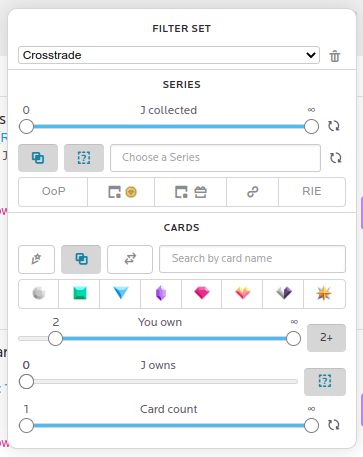
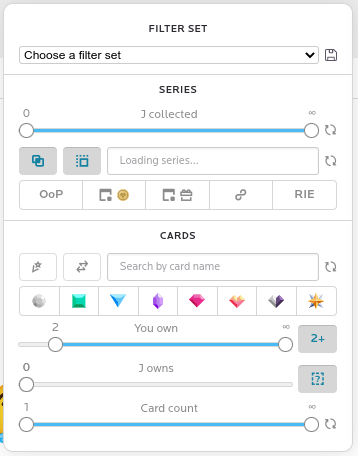
list change of 3.1.3

diff --git a/README.md b/README.md
@@ -4,12 +4,12 @@ Adds enhancements to improve trading and usage experience.
 
 # Installation
 
-1. To use usercripts, you need an appropriate extension. 
-I recommend Tampermonkey 
-([Chrome Webstore](https://chrome.google.com/webstore/detail/tampermonkey/dhdgffkkebhmkfjojejmpbldmpobfkfo), 
+1. To use usercripts, you need an appropriate extension.
+I recommend Tampermonkey
+([Chrome Webstore](https://chrome.google.com/webstore/detail/tampermonkey/dhdgffkkebhmkfjojejmpbldmpobfkfo),
 [Firefox Add-ons](https://addons.mozilla.org/ru/firefox/addon/tampermonkey/)).
-2. Then you need to 
-[download the userscript](https://github.com/7nik/nm-trade-enhancements/releases/latest/download/userscript.user.js) 
+2. Then you need to
+[download the userscript](https://github.com/7nik/nm-trade-enhancements/releases/latest/download/userscript.user.js)
 and the extension will automatically offer you to install it.
 
 # Provided Features
@@ -21,15 +21,15 @@ The card filters are replaced with another one, much more powerful.
 
 ![](./img/filters%20menu.png)
 
-Firstly, it allows you to save filters and quickly switch between them. And, if 
-you name a filter set `default`, it will be applied at the beginning of the trade. 
+Firstly, it allows you to save filters and quickly switch between them. And, if
+you name a filter set `default` (case doesn't matter), it will be applied at the beginning of the trade.
 
 Then goes the section with series-based filters.
-The first one defines the range of collected cards in your or your partner's 
-series to show it. A resetting button follows it. In the following line, two 
-toggles allow showing only series shared with the partner and series the partner 
-hasn't completed yet. Finally, a series chooser show only series matching the 
-filters mentioned above. It supports searching and shows core series and special 
+The first one defines the range of collected cards in your or your partner's
+series to show it. A resetting button follows it. In the following line, two
+toggles allow showing only series shared with the partner and series the partner
+hasn't completed yet. Finally, a series chooser show only series matching the
+filters mentioned above. It supports searching and shows core series and special
 series progress.
 
 ![](./img/series%20selector.png)
@@ -43,7 +43,6 @@ The last line allows filter series by the following types:
 
 The last section contains card-based filters. They allow:
 * Show only wishlisted cards;
-* Show only cards from common series;
 * Hide cards used in other trades;
 * Set card rarity;
 * Show only cards of which you or the partner own a certain number of copies;
@@ -67,14 +66,14 @@ The hidden series are listed below the applied filters.
 
 ![](./img/hidden%20series.png)
 
-Now, the card info contains the progress of your and your partner's collections. 
-In addition, its tooltip shows a bit more information. Thus you can estimate 
+Now, the card info contains the progress of your and your partner's collections.
+In addition, its tooltip shows a bit more information. Thus you can estimate
 partner interest in cards from this series.
 
 ![](./img/collected.png)
 
-Once you have added a card, you can change the print number to trade by clicking 
-it. The prints used in trade will be marked. But, for the sake of users who aren't 
+Once you have added a card, you can change the print number to trade by clicking
+it. The prints used in trade will be marked. But, for the sake of users who aren't
 aware of NMTE, you can change the print number only of the your cards.
 
 ![](./img/print%20chooser.png)
@@ -96,16 +95,16 @@ Now you'll get notifications about auto-withdraw trades.
 
 ![](./img/auto-withdraw%20fix.png)
 
-Note, it just remembers your trades and displays auto-withdrawn ones. So if you 
-make a trade on another device and it gets completed before NMTE sees it, there 
+Note, it just remembers your trades and displays auto-withdrawn ones. So if you
+make a trade on another device and it gets completed before NMTE sees it, there
 will be no notification.
 
 ## The card used in trade
-Like in trade, cards involved in trading will have a corresponding icon on the 
+Like in trade, cards involved in trading will have a corresponding icon on the
 collection and series pages.
 
 ## Trade previews
-Now, when you hover in the sidebar the trades list or a trade notification, a 
+Now, when you hover in the sidebar the trades list or a trade notification, a
 trade preview will appear.
 
 ![](./img/trade%20preview%20trades.jpeg)
@@ -119,8 +118,8 @@ Also, it will appear when you hover over the icon of using the card in trading.
 ![](./img/trade%20preview%20collection%20page.jpg)
 
 ## Single click instead of hundreds
-Just select the rarities you want to get or nothing if you want everything and 
-wishlist all these unowned cards in one click! 
+Just select the rarities you want to get or nothing if you want everything and
+wishlist all these unowned cards in one click!
 
 ![](./img/wishlist%20button.png)
 
@@ -129,15 +128,15 @@ Use the wishlist filter to toggle into unwishlisting mode.
 ![](./img/wishlist%20back%20button.png)
 
 ## Open promo packs only when you want
-Now your account setting has an option to use the promo button instead of the 
-promo page (by default, it's off). When the option is enabled, links with promo 
-packs will redirect you to the series page, where you can decide whether you want 
+Now your account setting has an option to use the promo button instead of the
+promo page (by default, it's off). When the option is enabled, links with promo
+packs will redirect you to the series page, where you can decide whether you want
 to open the pack or not.
 
 ![](./img/promo%20button.png)
 
 ## Peep the colored version of a card
-On detailed view, press and hold the card image to see its colored (or animated) 
+On detailed view, press and hold the card image to see its colored (or animated)
 version, even if you do not own it.
 
 ![](./img/peep%20the%20card.jpg)

diff --git a/CHANGELOG.md b/CHANGELOG.md
@@ -1,5 +1,18 @@
 # NeonMob Trade Enhancements changelog
 
+## 3.1.3
+* Styles are encapsulated
+* Filter name aren't capitalized anymore
+* The incomplete series filter now is a separated filter
+* Trade window: if the card involved in a trade, but not this print,
+now it will have the icon but faded
+* Implemented reward windows
+* Fixed failed start in some cases
+* Various fixes
+* Switched bundler for the userscript to rollup,
+replace `moment` with `dayjs` and `tippy.js` with `@floating-ui` - now the generated code is smaller up to twice
+* ESLint is now applied :(
+
 ## 3.1.2
 * Improved the card search performance in the trade window
 * Removed sequential processing of network requests
@@ -18,7 +31,7 @@
 
 ## 3.0.0
 It's a code of https://github.com/7nik/userscripts/blob/4b217c874b0703502126eb1e3e591cd8b6e22204/NM%20trade%20enhancement.user.js
-which was moved to TS, split into modules and the project was set up to 
+which was moved to TS, split into modules and the project was set up to
 compile as both userscript and webextension.
 Now it seem to successfully compile with the same behavior as the original
 
